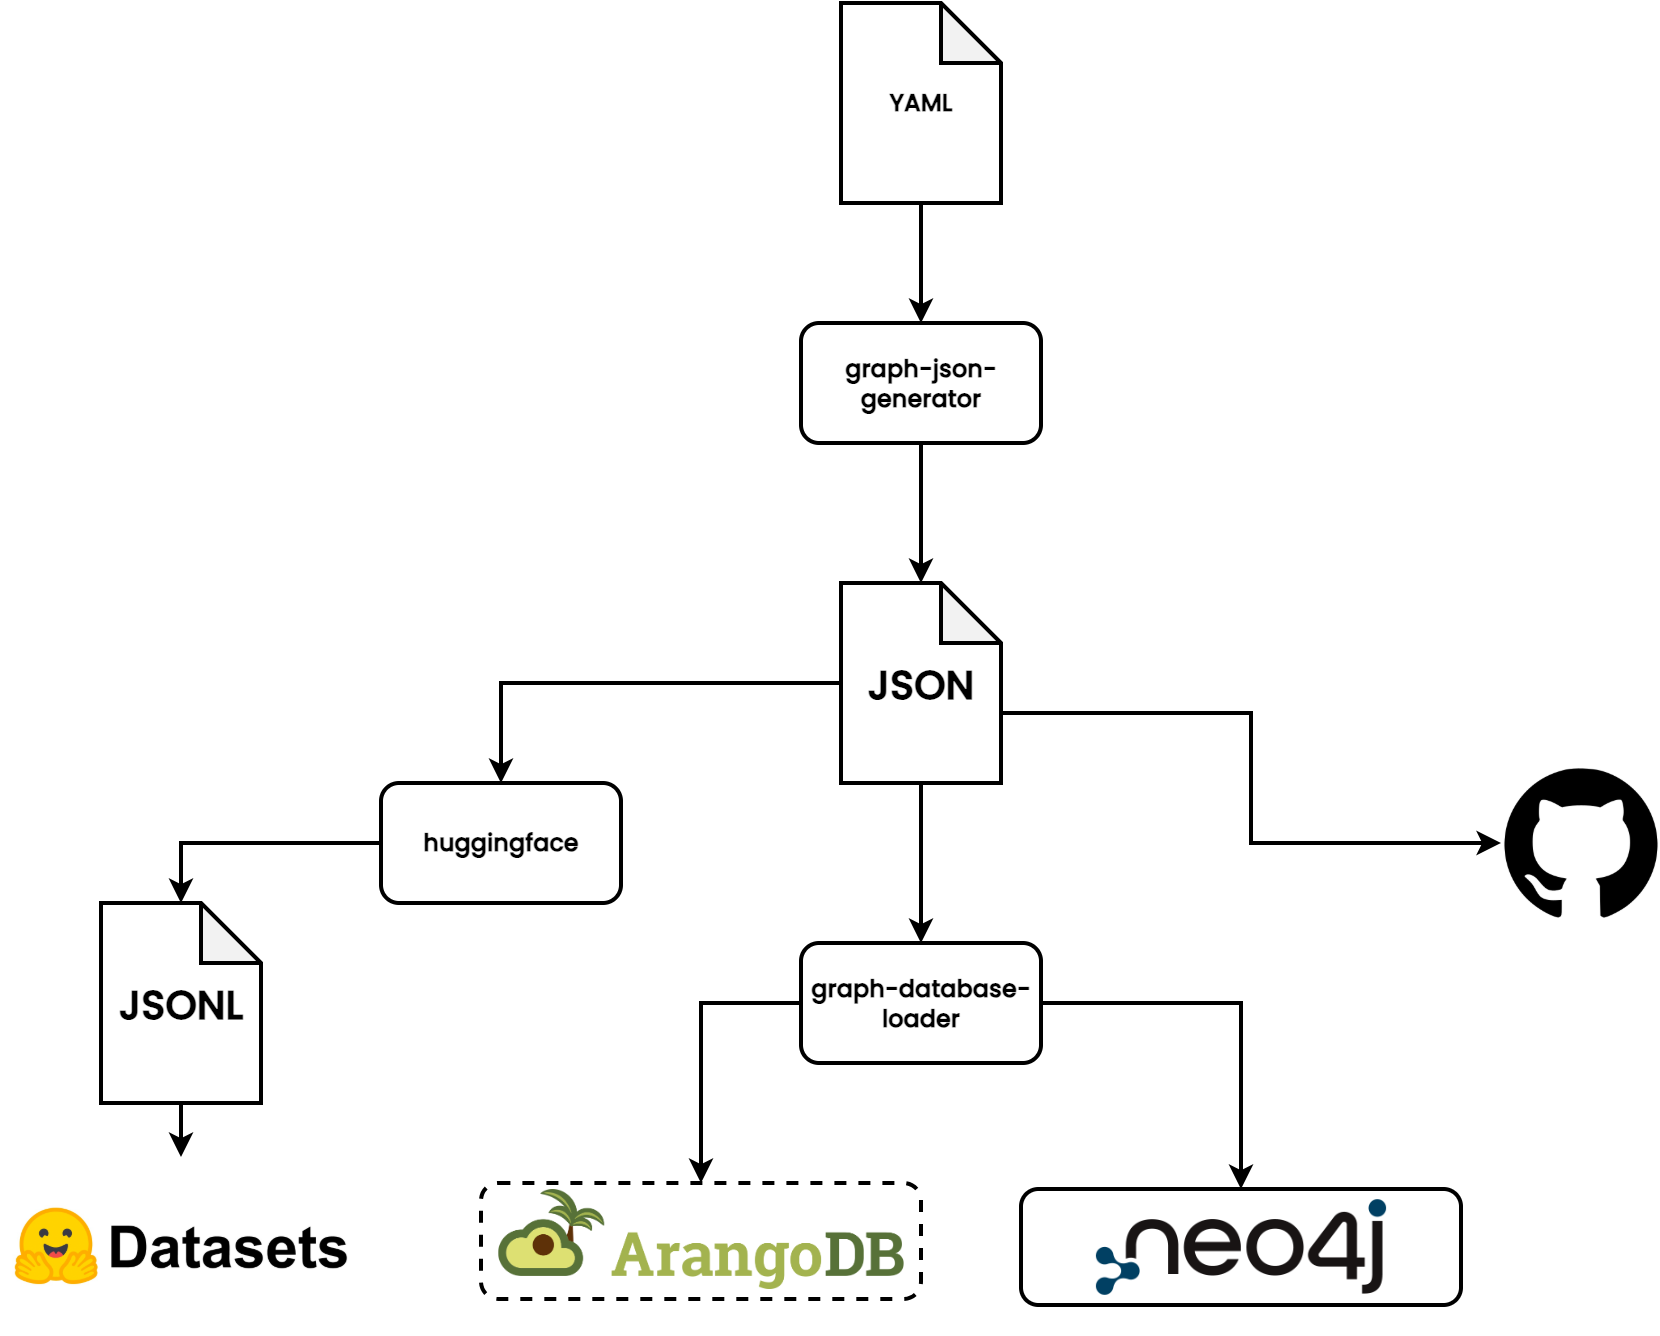
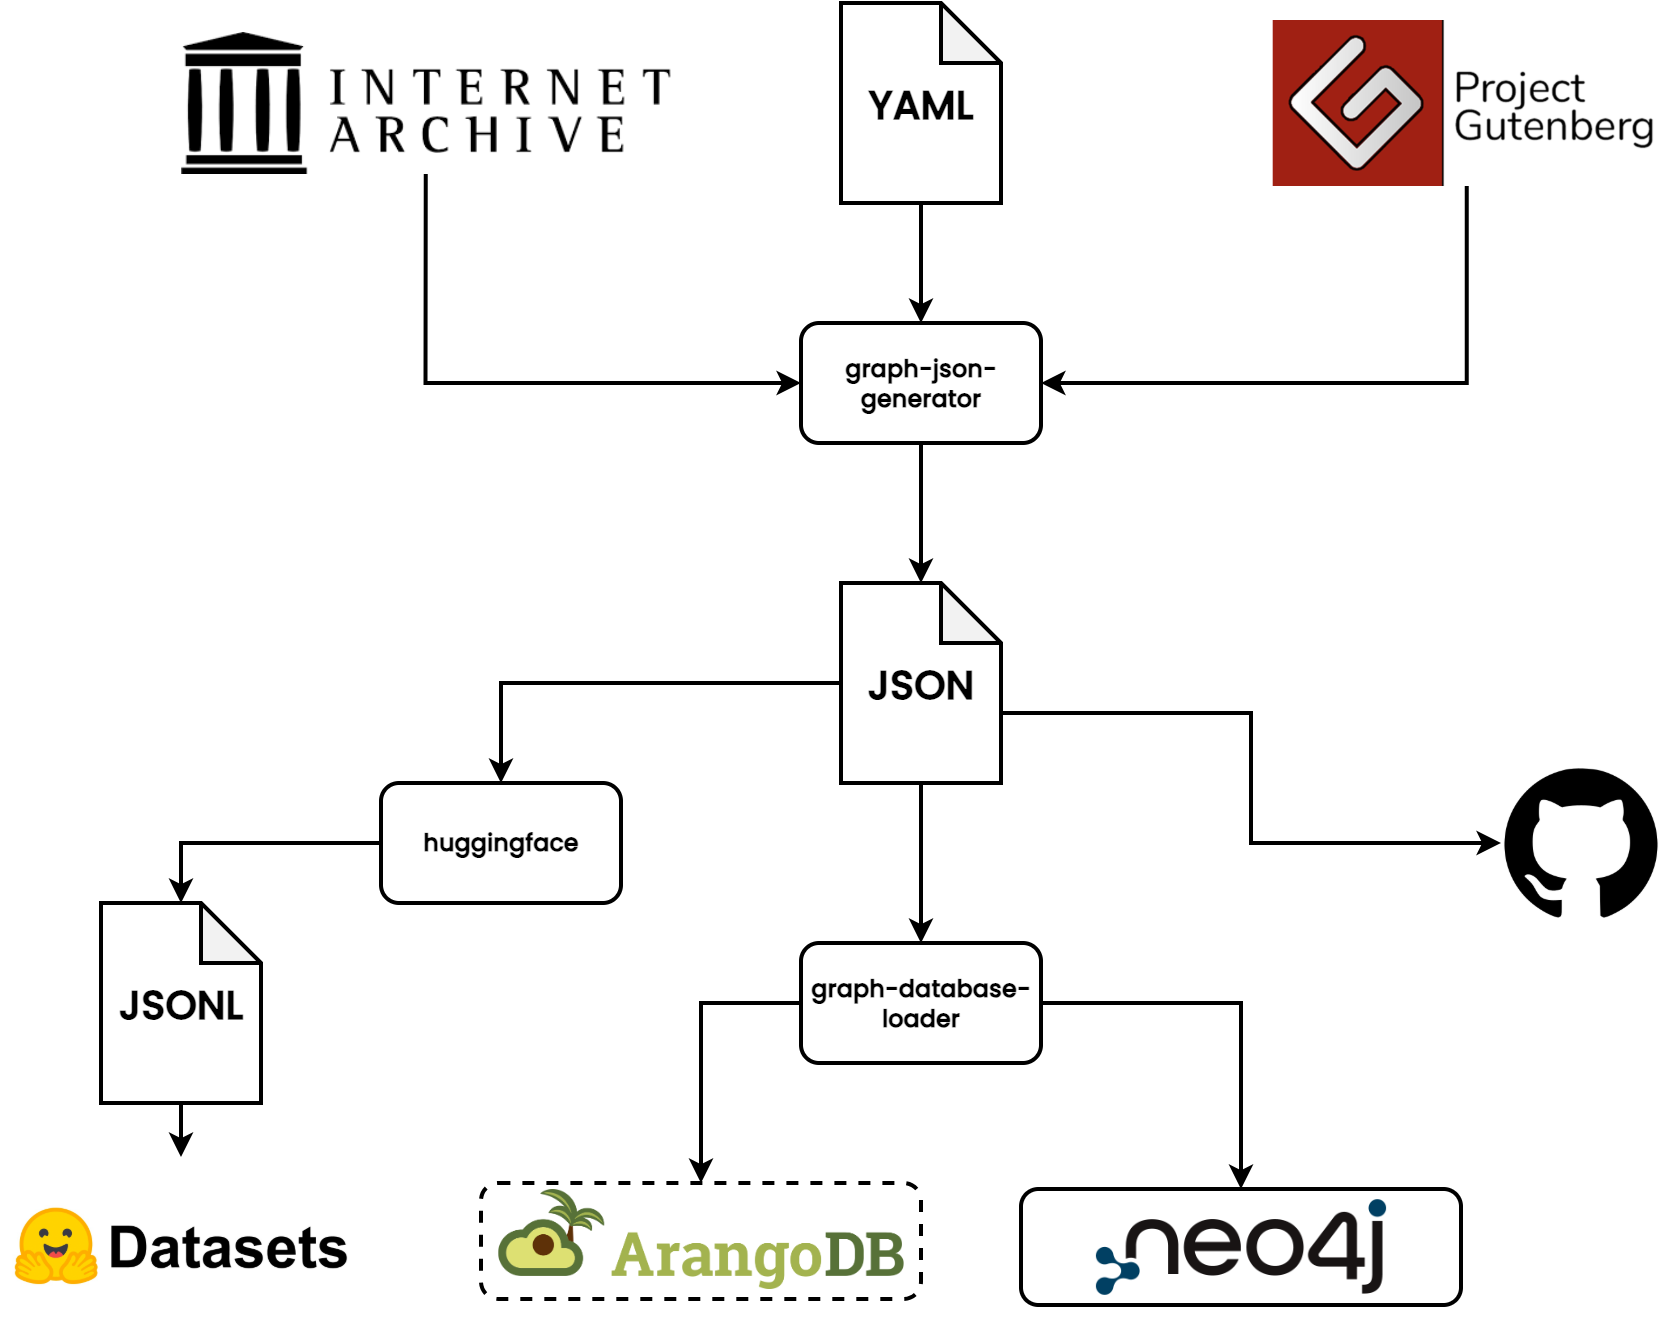
Decoupling graph-database-loader and HF data source (#165)

diff --git a/graph-database-loader/loader/loader.py b/graph-database-loader/loader/loader.py
@@ -11,39 +11,33 @@
 # WITHOUT WARRANTIES OR CONDITIONS OF ANY KIND, either express or implied.
 # See the License for the specific language governing permissions and
 # limitations under the License.
-from database.neo4j.database_clients import get_database_client
-from datasets import load_dataset
+import json
 
-splitToLanguage = {
-    "German": "German",
-    "Latin": "Latin",
-    "AncientGreek": "Ancient Greek"
-}
+from database.neo4j.database_clients import get_database_client
 
 
 def is_definition_node(node):
-    return node["language"] is None
+    return "language" not in node
 
 
-def load_into_neo4j(split: str):
-    dataset = load_dataset("QubitPi/Antiqua")
-
+def load_into_neo4j(graph_json_path: str, language: str):
     with get_database_client() as database_client:
-        graph = dataset[split].iter(batch_size=1)
-        for triple in graph:
-            source_node_attributes = {k: v for k, v in triple["source"][0].items() if v}
-            database_client.save_a_node_with_attributes("Term", source_node_attributes)
+        with open(graph_json_path, "r") as graph_json:
+            graph = json.load(graph_json)
+            for triple in graph:
+                source_node_attributes = {k: v for k, v in triple["source"].items() if v}
+                database_client.save_a_node_with_attributes("Term", source_node_attributes)
 
-            target_node_attributes = {k: v for k, v in triple["target"][0].items() if v}
-            database_client.save_a_node_with_attributes(
-                "Definition" if is_definition_node(triple["target"][0]) else "Term",
-                target_node_attributes
-            )
+                target_node_attributes = {k: v for k, v in triple["target"].items() if v}
+                database_client.save_a_node_with_attributes(
+                    "Definition" if is_definition_node(triple["target"]) else "Term",
+                    target_node_attributes
+                )
 
-            link = triple["link"][0]
-            database_client.save_a_link_with_attributes(
-                language=splitToLanguage[split],
-                source_label=source_node_attributes["label"],
-                target_label=target_node_attributes["label"],
-                attributes=link
-            )
+                link = triple["link"]
+                database_client.save_a_link_with_attributes(
+                    language=language,
+                    source_label=source_node_attributes["label"],
+                    target_label=target_node_attributes["label"],
+                    attributes=link
+                )

diff --git a/graph-json-generator/generator/generate_all_languages.py b/graph-json-generator/generator/generate_all_languages.py
@@ -23,8 +23,7 @@ if __name__ == "__main__":
         ("../../latin.yaml", "../latin-graph-data.json", LATIN),
         ("../../ancient-greek.yaml", "../ancient-greek-graph-data.json", ANCIENT_GREEK)
     ]:
-        with open(json_output_file, "w") as json_file:
-            json_file.write(json.dumps(generate(yaml_input_file, language)))
-            json_file.write("\n")
+        with open(json_output_file, "w", encoding="utf-8") as json_file:
+            json.dump(generate(yaml_input_file, language), json_file, ensure_ascii=False, indent=4)
 
     generate_german.generate("../../german.yaml", "../german-graph-data.json")

diff --git a/graph-database-loader/loader/load_ancient_greek.py b/graph-database-loader/loader/load_ancient_greek.py
@@ -16,7 +16,7 @@ from loader import load_into_neo4j
 
 
 def load_into_database():
-    load_into_neo4j("AncientGreek")
+    load_into_neo4j("../../graph-json-generator/ancient-greek-graph-data.json", "Ancient Greek")
 
 
 if __name__ == "__main__":

diff --git a/graph-database-loader/loader/load_german.py b/graph-database-loader/loader/load_german.py
@@ -16,7 +16,7 @@ from loader import load_into_neo4j
 
 
 def load_into_database():
-    load_into_neo4j("German")
+    load_into_neo4j("../../graph-json-generator/german-graph-data.json", "German")
 
 
 if __name__ == "__main__":

diff --git a/graph-database-loader/loader/load_latin.py b/graph-database-loader/loader/load_latin.py
@@ -16,7 +16,7 @@ from loader import load_into_neo4j
 
 
 def load_into_database():
-    load_into_neo4j("Latin")
+    load_into_neo4j("../../graph-json-generator/latin-graph-data.json", "Latin")
 
 
 if __name__ == "__main__":

diff --git a/huggingface/README.md b/huggingface/README.md
@@ -38,3 +38,146 @@ dataset = load_dataset("QubitPi/Antiqua")
 > [!TIP]
 > If `dataset = load_dataset("QubitPi/Antiqua")` throws an error, please upgrade the `datasets` package to its
 > _latest version_
+
+There are 3 splits we can choose from:
+
+1. German
+
+   ```python
+   split = dataset["German"]
+   ```
+
+2. Latin
+
+   ```python
+   split = dataset["Latin"]
+   ```
+
+3. Ancient Greek
+
+   ```python
+   split = dataset["AncientGreek"]
+   ```
+
+To iterate the split for each triple of source node, target node, and link:
+
+```python
+graph = split.iter(batch_size=1)
+for triple in graph:
+    source_node = {k: v for k, v in triple["source"][0].items() if v}
+    target_node = {k: v for k, v in triple["target"][0].items() if v}
+    link        = triple["link"][0]
+```
+
+Each `source_node` have the following fields (those in __bold__ exist in all nodes while others are not always present)
+
+- __label__: the vocabulary term
+- __language__: the language of this term and is always one of the following values:
+
+  - `German`
+  - `Latin`
+  - `Ancient Greek`
+
+- audio: the link to the Wiktionary audio of this vocabulary
+- declension-_i_-_j_: The declension entry in the _i_-th row and _j_-th column in declension table
+
+  > [!TIP]
+  >
+  > To encode the inflections which are common in most Indo-European languages, a virtual inflection table that looks
+  > like the following are employed (taking German noun "Gegenstand" as an example):
+  >
+  > ```
+  > ["",         singular,                    plural      ]
+  > [nominative, Gegenstand,                  Gegenstände ]
+  > [genitive,   "Gegenstandes, Gegenstands", Gegenstände ]
+  > [dative,     Gegenstand,                  Gegenständen]
+  > [accusative, Gegenstand,                  Gegenstände ]
+  > ```
+  >
+  > The declension (inflection) table above is equivalent to
+  >
+  > <table><tbody>
+  >   <tr>
+  >     <td></td>
+  >     <td>singular</td>
+  >     <td>plural</td>
+  >   </tr>
+  >   <tr>
+  >     <td>nominative</td>
+  >     <td>Gegenstand</td>
+  >     <td>Gegenstände</td>
+  >   </tr>
+  >   <tr>
+  >     <td>genitive</td>
+  >     <td>Gegenstandes, Gegenstands</td>
+  >     <td>Gegenstände</td>
+  >   </tr>
+  >   <tr>
+  >     <td>dative</td>
+  >     <td>Gegenstand</td>
+  >     <td>Gegenständen</td>
+  >   </tr>
+  >   <tr>
+  >     <td>accusative</td>
+  >     <td>Gegenstand</td>
+  >     <td>Gegenstände</td>
+  >   </tr>
+  > </tbody>
+  > </table>
+  >
+  > This has been encoded in Antiqua Hugging Face Datasets as:
+  >
+  > - declension-0-0 = ""
+  > - declension-0-1 = "singular"
+  > - declension-0-2 = "plural"
+  > - declension-1-0 = "nominative"
+  > - declension-1-1 = "Gegenstand"
+  > - declension-1-2 = "Gegenstände"
+  > - declension-2-0 = "genitive"
+  > - declension-2-1 = "Gegenstandes, Gegenstands"
+  > - ...
+  > - declension-4-2 = "Gegenstände"
+
+For example, to get the word and language of this word:
+
+```python
+graph = split.iter(batch_size=1)
+for triple in graph:
+    source_node = {k: v for k, v in triple["source"][0].items() if v}
+    print("label: {label}".format(label=source_node["label"]))
+    print("language: {language}".format(language=source_node["language"]))
+```
+
+Each `target_node` is either
+
+- an object with the same field scheme as `source_node`, or
+- a "definition" node with a non-null "label" field only, in which case, the "label" field is the English meaning of the
+  word represented by the `source_node` pointing at this `target_node`
+
+```python
+graph = split.iter(batch_size=1)
+for triple in graph:
+    target_node = {k: v for k, v in triple["target"][0].items() if v}
+    if target_node["language"] is None:
+        print("This is an English definition of some source node word: {definition}".format(definition=target_node["label"]))
+    else:
+        print("label: {label}".format(label=target_node["label"]))
+        print("language: {language}".format(language=target_node["language"]))
+```
+
+> [!TIP]
+>
+> In the case of a "definition" node, we will see all fields are `null` except for the "label" field. Why are there so
+> many unnecessary null-fields? Because there are decent amount fo target nodes that are not "definition" nodes; these
+> are source nodes themselves acting as target nodes because they have been spotted to have connections with other words
+
+Each `link`, no surprises there, encodes the relationship between the `source_node` and `target_node`. Its __label__
+field signifies the nature of the relationship. For example, `{ "label": "definition" }` means that `target_node` is the
+definition of `source_node`
+
+```python
+graph = dataset[split].iter(batch_size=1)
+for triple in graph:
+    link = triple["link"][0]
+    print(link["label"])
+```
